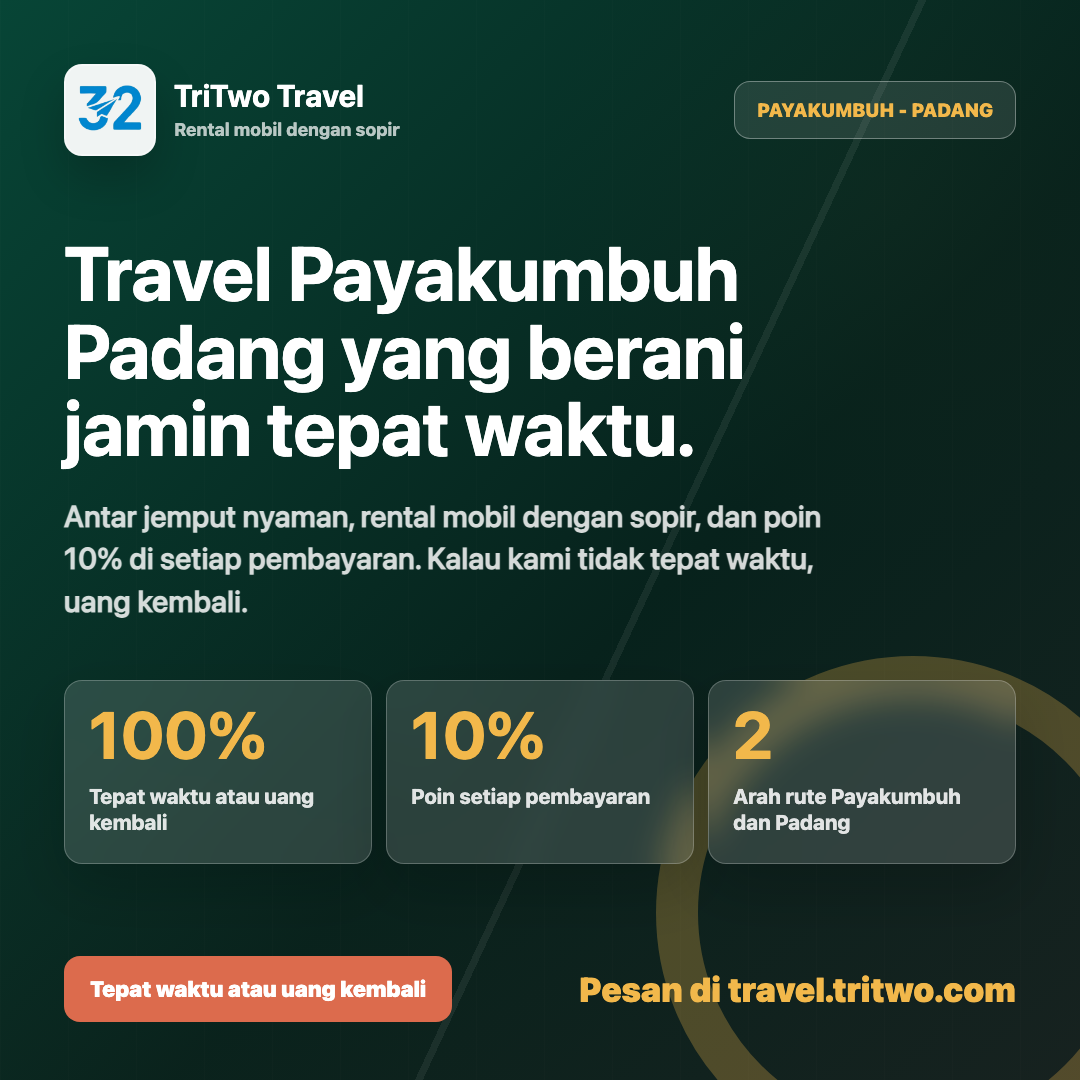
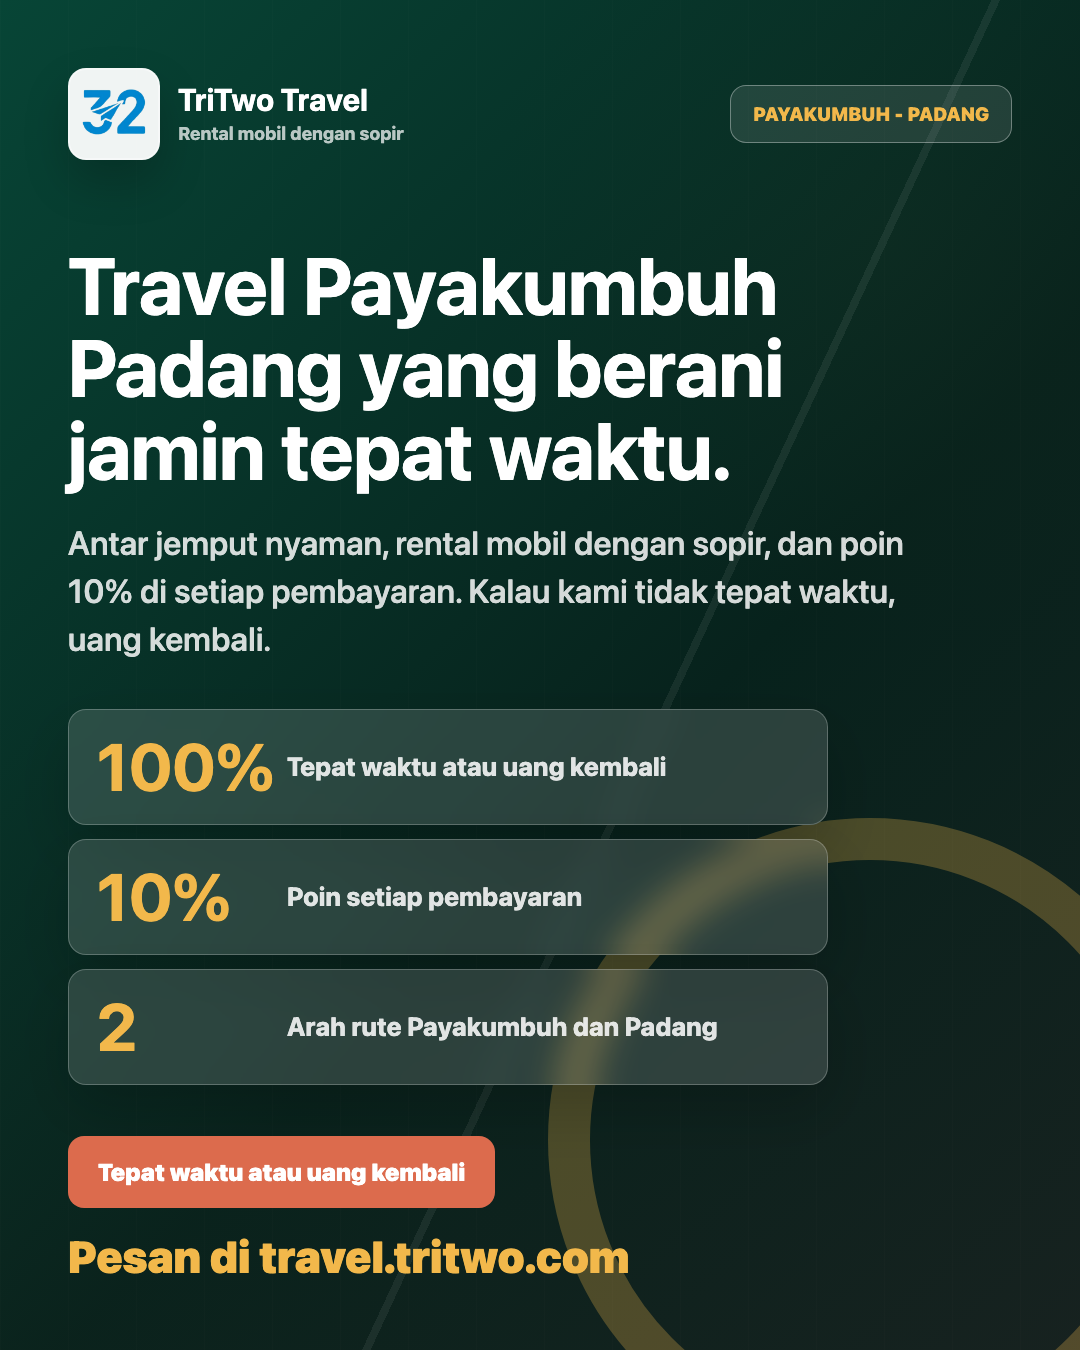
Update Instagram feed to portrait format

diff --git a/instagram-feed.html b/instagram-feed.html
@@ -22,7 +22,7 @@
       html,
       body {
         width: 1080px;
-        height: 1080px;
+        height: 1350px;
         margin: 0;
       }
 
@@ -38,8 +38,8 @@
       .post {
         position: relative;
         width: 1080px;
-        height: 1080px;
-        padding: 64px;
+        height: 1350px;
+        padding: 68px;
         overflow: hidden;
         background:
           linear-gradient(135deg, rgba(7, 69, 54, 0.97), rgba(7, 30, 25, 0.9) 58%, rgba(23, 33, 31, 0.98)),
@@ -60,10 +60,10 @@
       .post::after {
         content: "";
         position: absolute;
-        right: -90px;
-        bottom: -90px;
-        width: 430px;
-        height: 430px;
+        right: -112px;
+        bottom: -112px;
+        width: 560px;
+        height: 560px;
         border: 42px solid rgba(242, 184, 75, 0.28);
         border-radius: 50%;
       }
@@ -137,36 +137,40 @@
 
       .content {
         max-width: 900px;
-        margin-top: 78px;
+        margin-top: 84px;
       }
 
       h1 {
         margin: 0;
-        max-width: 880px;
-        font-size: 76px;
-        line-height: 1.02;
+        max-width: 930px;
+        font-size: 80px;
+        line-height: 1.03;
         letter-spacing: 0;
       }
 
       .copy {
-        max-width: 810px;
+        max-width: 900px;
         margin: 28px 0 0;
         color: rgba(255, 255, 255, 0.83);
-        font-size: 30px;
-        font-weight: 520;
-        line-height: 1.42;
+        font-size: 33px;
+        font-weight: 540;
+        line-height: 1.45;
       }
 
       .stats {
         display: grid;
-        grid-template-columns: repeat(3, 1fr);
+        grid-template-columns: 1fr;
         gap: 14px;
-        margin-top: 58px;
+        margin-top: 46px;
+        max-width: 760px;
       }
 
       .stat-card {
-        min-height: 184px;
-        padding: 24px;
+        display: grid;
+        grid-template-columns: 190px 1fr;
+        align-items: center;
+        min-height: 116px;
+        padding: 20px 28px;
         border: 1px solid rgba(255, 255, 255, 0.24);
         border-radius: 18px;
         background: rgba(255, 255, 255, 0.14);
@@ -183,39 +187,38 @@
 
       .stat-card span {
         display: block;
-        margin-top: 18px;
         color: rgba(255, 255, 255, 0.86);
-        font-size: 21px;
+        font-size: 26px;
         font-weight: 760;
-        line-height: 1.25;
+        line-height: 1.22;
       }
 
       .cta {
         position: absolute;
-        left: 64px;
-        right: 64px;
-        bottom: 58px;
+        left: 68px;
+        right: 68px;
+        bottom: 68px;
         display: flex;
-        align-items: center;
-        justify-content: space-between;
-        gap: 28px;
+        flex-direction: column;
+        align-items: flex-start;
+        gap: 22px;
       }
 
       .guarantee {
         display: inline-flex;
-        min-height: 66px;
+        min-height: 72px;
         align-items: center;
         border-radius: 16px;
-        padding: 0 26px;
+        padding: 0 30px;
         color: var(--white);
         background: var(--coral);
-        font-size: 22px;
+        font-size: 24px;
         font-weight: 950;
       }
 
       .url {
         color: var(--gold);
-        font-size: 34px;
+        font-size: 44px;
         font-weight: 950;
       }
     </style>
